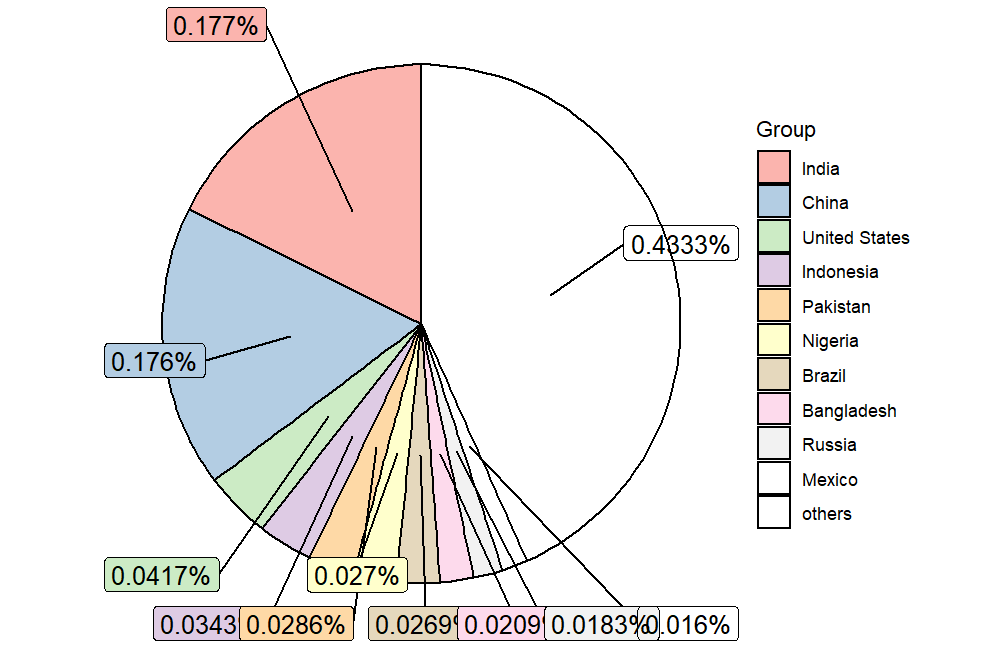
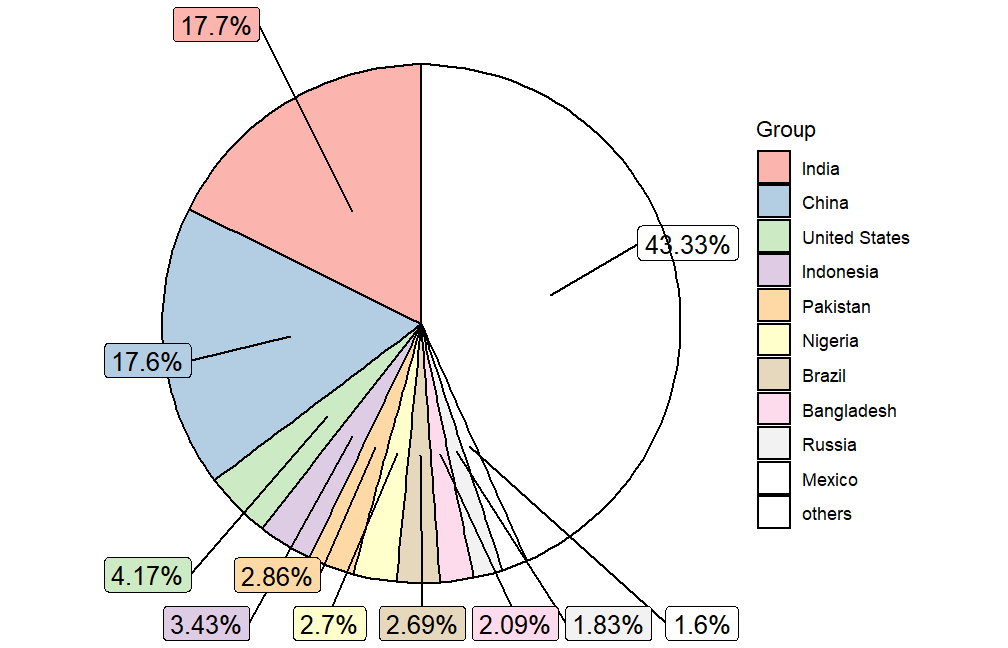
6-6

diff --git a/lecture/Lecture 25/lecture25.html b/lecture/Lecture 25/lecture25.html
@@ -391,11 +391,11 @@ webpage %&gt;% html_elements(".wikitable.sortable") %&gt;% `[[`(2) %&gt;% html_t
    &lt;int&gt; &lt;chr&gt;                  &lt;chr&gt;         &lt;chr&gt;                      &lt;chr&gt;  
  1     1 India                  1,425,775,850 17.7%                      14 Apr~
  2     2 China                  1,412,600,000 17.6%                      31 Dec~
- 3     3 United States          334,810,078   4.17%                      2 Jun ~
+ 3     3 United States          334,860,102   4.17%                      6 Jun ~
  4     4 Indonesia              275,773,800   3.43%                      1 Jul ~
  5     5 Pakistan               229,488,994   2.86%                      1 Jul ~
  6     6 Nigeria                216,746,934   2.70%                      1 Jul ~
- 7     7 Brazil                 216,219,078   2.69%                      2 Jun ~
+ 7     7 Brazil                 216,235,634   2.69%                      6 Jun ~
  8     8 Bangladesh             168,220,000   2.09%                      1 Jul ~
  9     9 Russia                 147,190,000   1.83%                      1 Oct ~
 10    10 Mexico                 128,271,248   1.60%                      31 Mar~
@@ -536,7 +536,7 @@ How to do with the **Percentage of the world**? We need to replace **%** into no
 ```r
 t1 = table %&gt;% 
   mutate(Percentage=gsub("%","",`Percentage  of the world`)) %&gt;% 
-  mutate(Percentage=as.numeric(Percentage)/1e+02) %&gt;% 
+  mutate(Percentage=as.numeric(Percentage)) %&gt;% 
   dplyr::select(`Country / Dependency`,Percentage )
 head(t1)
 ```
@@ -545,18 +545,18 @@ head(t1)
 # A tibble: 6 x 2
   `Country / Dependency` Percentage
   &lt;chr&gt;                       &lt;dbl&gt;
-1 India                      0.177 
-2 China                      0.176 
-3 United States              0.0417
-4 Indonesia                  0.0343
-5 Pakistan                   0.0286
-6 Nigeria                    0.027 
+1 India                       17.7 
+2 China                       17.6 
+3 United States                4.17
+4 Indonesia                    3.43
+5 Pakistan                     2.86
+6 Nigeria                      2.7 
 ```
 
 ```r
 #Now add others and remaining percentage
 t2 = t1 %&gt;% add_row(`Country / Dependency` = "others",
-                    Percentage = 1 - sum(t1$Percentage))
+                    Percentage = 100 - sum(t1$Percentage))
 ```
 
 ---
@@ -627,13 +627,13 @@ tibble [200 x 10] (S3: tbl_df/tbl/data.frame)
  $ Rank              : int [1:200] 1 2 3 4 5 6 7 8 9 10 ...
  $ Name              : chr [1:200] "BTCBitcoin" "ETHEthereum" "USDTTether" "BNBBNB" ...
  $ Symbol            : chr [1:200] "BTC" "ETH" "USDT" "BNB" ...
- $ Market Cap        : chr [1:200] "$524.75B$524,754,167,784" "$227.84B$227,844,219,208" "$83.17B$83,172,371,684" "$47.71B$47,706,241,120" ...
- $ Price             : chr [1:200] "$27,060.01" "$1,894.97" "$1.00" "$306.09" ...
- $ Circulating Supply: chr [1:200] "19,392,237 BTC" "120,236,127 ETH *" "83,152,494,319 USDT *" "155,855,901 BNB *" ...
- $ Volume(24h)       : chr [1:200] "$8,319,155,232" "$3,296,557,920" "$13,168,483,759" "$247,579,899" ...
- $ % 1h              : chr [1:200] "-0.02%" "0.03%" "0.00%" "0.02%" ...
- $ % 24h             : chr [1:200] "-0.42%" "-0.40%" "0.00%" "-0.01%" ...
- $ % 7d              : chr [1:200] "-0.42%" "2.45%" "-0.01%" "-0.84%" ...
+ $ Market Cap        : chr [1:200] "$525.82B$525,824,053,198" "$226.16B$226,163,978,356" "$83.23B$83,229,783,077" "$43.82B$43,817,865,488" ...
+ $ Price             : chr [1:200] "$27,111.56" "$1,881.03" "$1.00" "$281.14" ...
+ $ Circulating Supply: chr [1:200] "19,394,831 BTC" "120,233,889 ETH *" "83,218,992,303 USDT *" "155,855,392 BNB *" ...
+ $ Volume(24h)       : chr [1:200] "$21,361,773,791" "$8,628,498,940" "$30,489,226,836" "$686,212,836" ...
+ $ % 1h              : chr [1:200] "0.39%" "0.20%" "0.01%" "0.02%" ...
+ $ % 24h             : chr [1:200] "5.33%" "3.97%" "-0.01%" "2.24%" ...
+ $ % 7d              : chr [1:200] "-2.27%" "-1.28%" "-0.01%" "-9.94%" ...
 ```
 
 ---
@@ -659,16 +659,16 @@ top_10
 # A tibble: 10 x 10
     Rank Name      Symbol `Market Cap`  Price `Circulating Supply` `Volume(24h)`
    &lt;int&gt; &lt;chr&gt;     &lt;chr&gt;  &lt;chr&gt;         &lt;dbl&gt; &lt;chr&gt;                &lt;chr&gt;        
- 1    18 WBTCWrap~ WBTC   $4.24B$4,24~ 2.71e4 156,628 WBTC *       $79,469,253  
- 2     1 BTCBitco~ BTC    $524.75B$52~ 2.71e4 19,392,237 BTC       $8,319,155,2~
- 3     2 ETHEther~ ETH    $227.84B$22~ 1.89e3 120,236,127 ETH *    $3,296,557,9~
- 4     4 BNBBNB    BNB    $47.71B$47,~ 3.06e2 155,855,901 BNB *    $247,579,899 
- 5    12 LTCLitec~ LTC    $6.95B$6,95~ 9.51e1 73,068,964 LTC       $501,407,572 
- 6     9 SOLSolana SOL    $8.46B$8,46~ 2.13e1 396,969,183 SOL *    $149,702,749 
- 7    16 AVAXAval~ AVAX   $5.04B$5,03~ 1.46e1 344,209,869 AVAX *   $89,801,037  
- 8    19 ATOMCosm~ ATOM   $3.73B$3,73~ 1.08e1 346,608,690 ATOM *   $47,682,731  
- 9    13 DOTPolka~ DOT    $6.36B$6,35~ 5.34e0 1,190,859,197 DOT *  $81,883,839  
-10    20 LEOUNUS ~ LEO    $3.34B$3,33~ 3.59e0 930,208,882 LEO *    $425,000     
+ 1     1 BTCBitco~ BTC    $525.82B$52~ 2.71e4 19,394,831 BTC       $21,361,773,~
+ 2    18 WBTCWrap~ WBTC   $4.24B$4,24~ 2.71e4 156,728 WBTC *       $158,881,428 
+ 3     2 ETHEther~ ETH    $226.16B$22~ 1.88e3 120,233,889 ETH *    $8,628,498,9~
+ 4     4 BNBBNB    BNB    $43.82B$43,~ 2.81e2 155,855,392 BNB *    $686,212,836 
+ 5    12 LTCLitec~ LTC    $6.62B$6,62~ 9.06e1 73,087,627 LTC       $644,858,634 
+ 6     9 SOLSolana SOL    $8.09B$8,09~ 2.04e1 397,536,936 SOL *    $441,727,467 
+ 7    14 AVAXAval~ AVAX   $5.02B$5,02~ 1.46e1 344,435,516 AVAX *   $169,101,140 
+ 8    19 ATOMCosm~ ATOM   $3.51B$3,51~ 1.01e1 346,608,690 ATOM *   $76,341,109  
+ 9    13 DOTPolka~ DOT    $6.23B$6,22~ 5.2 e0 1,197,044,243 DOT *  $119,927,631 
+10    20 LEOUNUS ~ LEO    $3.27B$3,26~ 3.51e0 930,178,169 LEO *    $1,180,879   
 # i 3 more variables: `% 1h` &lt;chr&gt;, `% 24h` &lt;chr&gt;, `% 7d` &lt;chr&gt;
 ```
 
